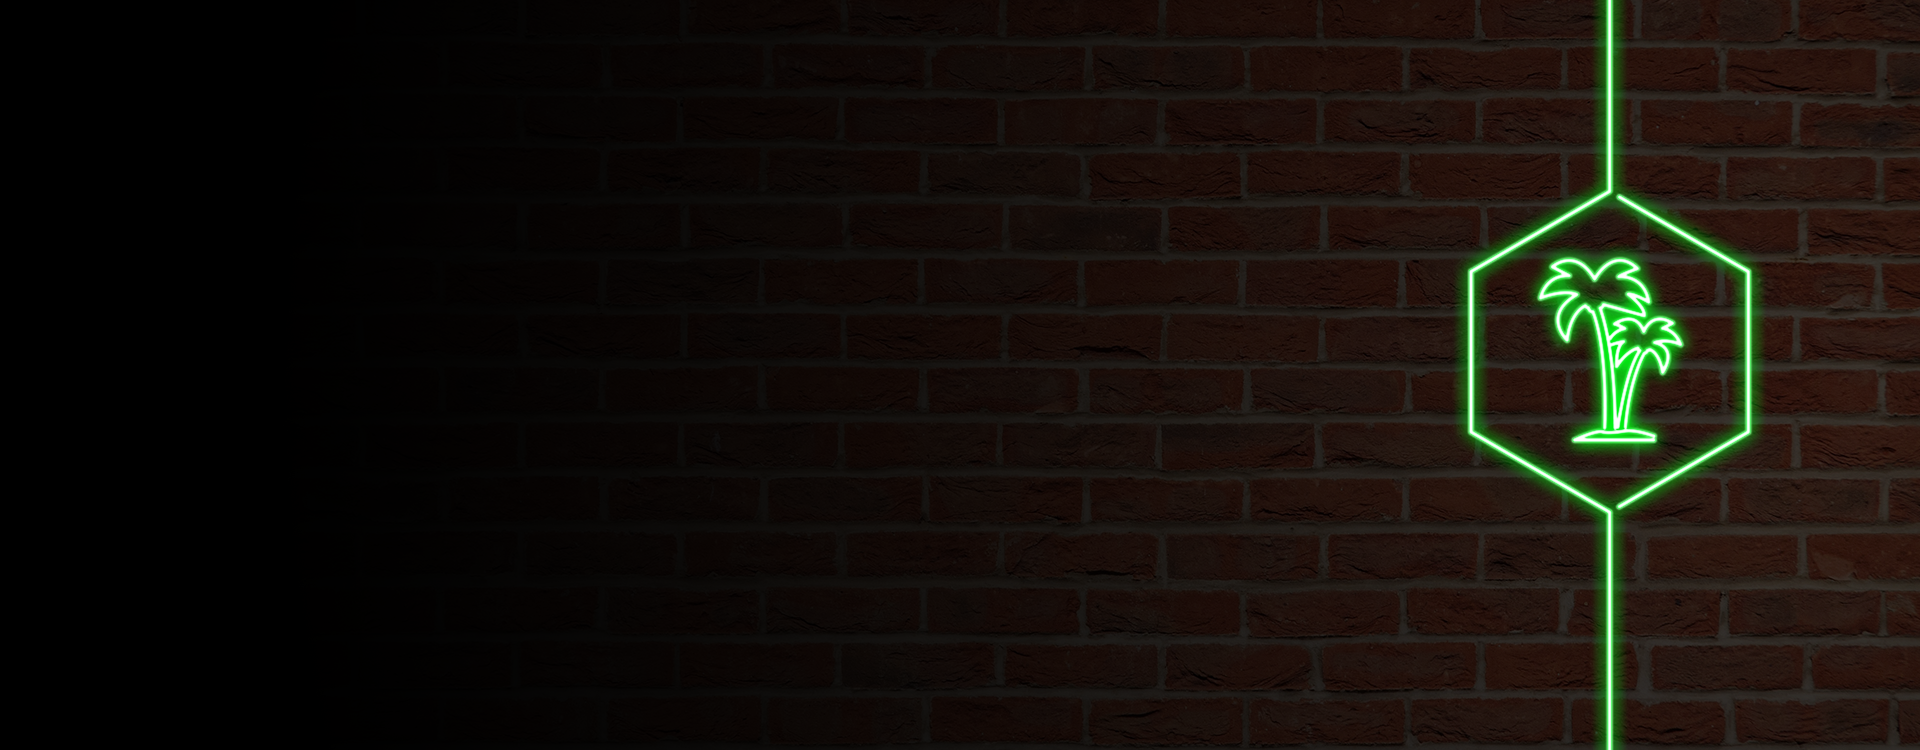
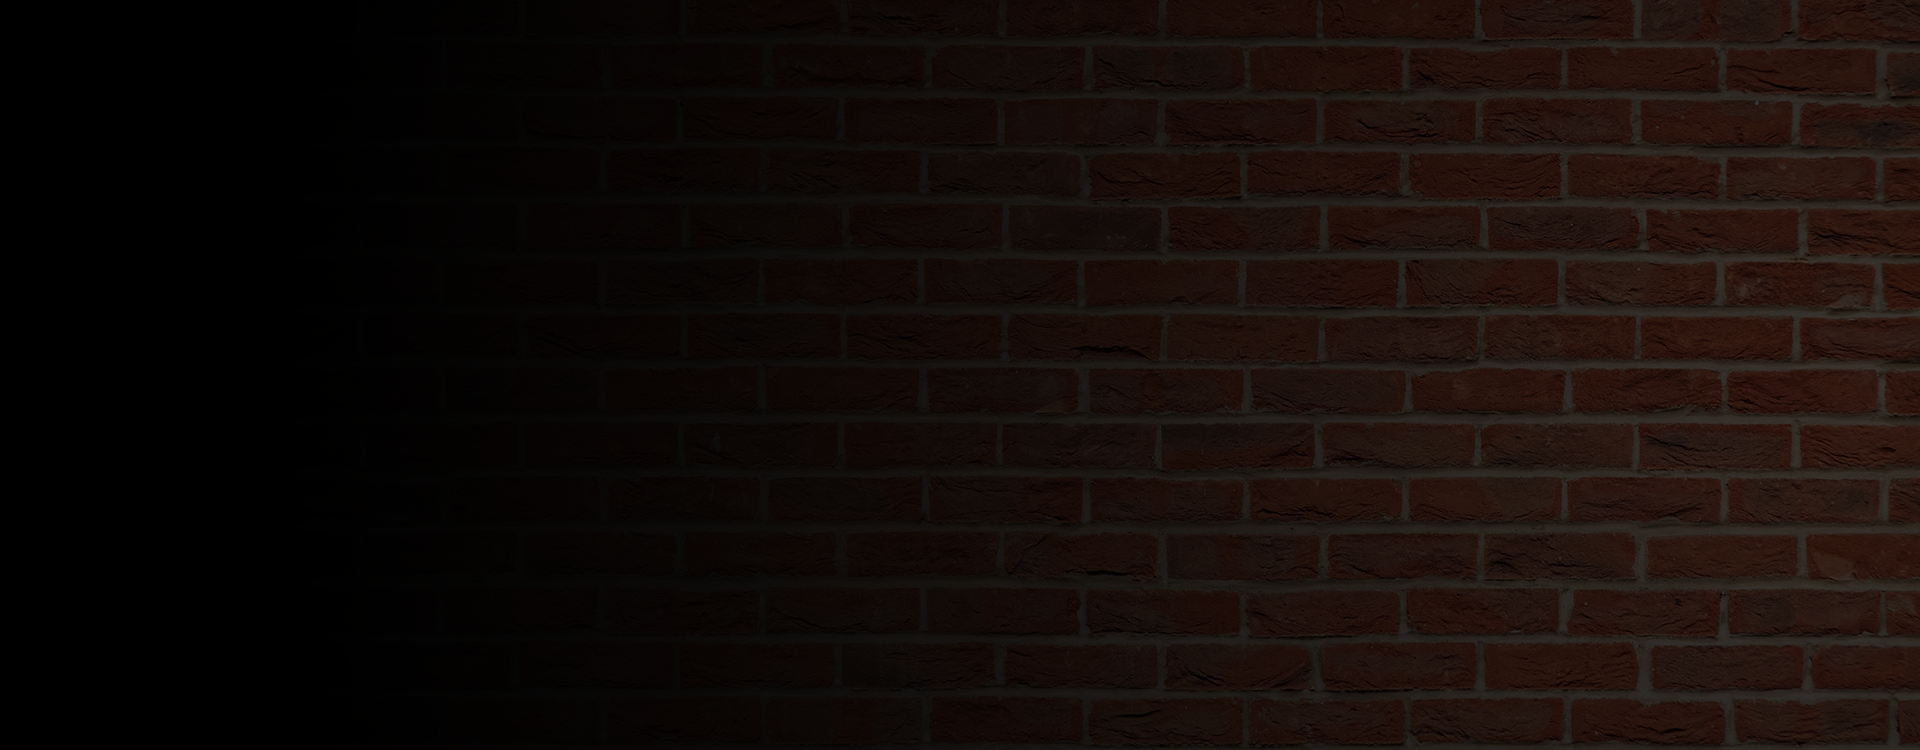
side showcase changes

Changed region(s): [[0.75, 0.0, 0.9375, 1.0]]

diff --git a/src/app/home/home.component.scss b/src/app/home/home.component.scss
@@ -2,6 +2,7 @@
     width: 100%;
     height: 650px;
     background-image: url('/assets/image/hero-background.png');
+    background-position: center;
 }
 
 .logo-bunch img {
@@ -12,7 +13,6 @@
 }
 
 /** BLINKING LINE **/
-
 .box::after {
     content: "";
     width: 3px;
@@ -35,46 +35,138 @@
   }
 
 .box::after {
-    /*code commented for brevity*/
     animation: cursor-blink 1.5s steps(2) infinite;
 }
 
-
-
-
-.animate__animated.icon-1 {
-    --animate-delay: .1s;
-}
-.animate__animated.icon-2 {
-    --animate-delay: .2s;
+.neon-tube {
+    height: 650px;
+    animation: flicker 7s linear infinite;
+    filter: invert(.7) drop-shadow(0px 0px 8px #00e613);
 }
 
-.animate__animated.icon-3 {
-    --animate-delay: .3s;
-}
-
-.animate__animated.icon-4 {
-    --animate-delay: .4s;
-}
-
-.animate__animated.icon-5 {
-    --animate-delay: .5s;
-}
-
-.animate__animated.icon-6 {
-    --animate-delay: .6s;
-}
-
-.animate__animated.icon-7 {
-    --animate-delay: .7s;
-}
-
-.animate__animated.icon-8 {
-    --animate-delay: .8s;
-}
-.animate__animated.icon-9 {
-    --animate-delay: .9s;
-}
-.animate__animated.icon-10 {
-    --animate-delay: 1s;
-}
+@keyframes flicker {
+    from {
+      opacity: 1;
+    }
+  
+    4% {
+      opacity: .9;
+    }
+  
+    6% {
+      opacity: .85;
+    }
+  
+    8% {
+      opacity: .95;
+    }
+  
+    10% {
+      opacity: .90;
+    }
+  
+    11% {
+      opacity: .922;
+    }
+  
+    12% {
+      opacity: .9;
+    }
+  
+    14% {
+      opacity: .95;
+    }
+  
+    16% {
+      opacity: .98;
+    }
+  
+    17% {
+      opacity: .9;
+    }
+  
+    19% {
+      opacity: .93;
+    }
+  
+    20% {
+      opacity: .99;
+    }
+  
+    24% {
+      opacity: 1;
+    }
+  
+    26% {
+      opacity: .94;
+    }
+  
+    28% {
+      opacity: .98;
+    }
+  
+    37% {
+      opacity: .93;
+    }
+  
+    38% {
+      opacity: .5;
+    }
+  
+    39% {
+      opacity: .96;
+    }
+  
+    42% {
+      opacity: 1;
+    }
+  
+    44% {
+      opacity: .97;
+    }
+  
+    46% {
+      opacity: .94;
+    }
+  
+    56% {
+      opacity: .9;
+    }
+  
+    58% {
+      opacity: .9;
+    }
+  
+    60% {
+      opacity: .99;
+    }
+  
+    68% {
+      opacity: 1;
+    }
+  
+    70% {
+      opacity: .9;
+    }
+  
+    72% {
+      opacity: .95;
+    }
+  
+    93% {
+      opacity: .93;
+    }
+  
+    95% {
+      opacity: .95;
+    }
+  
+    97% {
+      opacity: .93;
+    }
+  
+    to {
+      opacity: 1;
+    }
+  }
+  

diff --git a/src/app/skills/web-apps/web-apps.component.html b/src/app/skills/web-apps/web-apps.component.html
@@ -1,6 +1,6 @@
 <div class="full-height-container">
     <div class="hero-md background-web d-flex align-items-center">
-        <div class="container">
+        <div class="container" style="z-index: 1">
             <div class="row d-flex align-items-center">
                 <div class="col-md-6 hero-text text-md-start my-4 text-center animate__animated animate__fadeIn">
                     <h2>Developing</h2>
@@ -14,12 +14,12 @@
             </div>
         </div>
         <div class="side-showcase">
-            <img class="animate__animated animate__fadeInRight animate__delay-2s icon-1" src="assets/svg/html5.svg">
-            <img class="animate__animated animate__fadeInRight animate__delay-2s icon-2" src="assets/svg/css3.svg">
-            <img class="animate__animated animate__fadeInRight animate__delay-2s icon-3" src="assets/svg/sass.svg">
-            <img class="animate__animated animate__fadeInRight animate__delay-2s icon-4" src="assets/svg/javascript.svg">
-            <img class="animate__animated animate__fadeInRight animate__delay-2s icon-5" src="assets/svg/typescript.svg">
-            <img class="animate__animated animate__fadeInRight animate__delay-2s icon-6" src="assets/svg/php.svg">
+            <img class="animate__animated animate__fadeInRight animate__delay-2s icon-1" placement="start" ngbTooltip="HTML" src="assets/svg/html5.svg">
+            <img class="animate__animated animate__fadeInRight animate__delay-2s icon-2" placement="start" ngbTooltip="CSS" src="assets/svg/css3.svg">
+            <img class="animate__animated animate__fadeInRight animate__delay-2s icon-3" placement="start" ngbTooltip="SASS" src="assets/svg/sass.svg">
+            <img class="rounded animate__animated animate__fadeInRight animate__delay-2s icon-4" placement="start" ngbTooltip="JavaScript" src="assets/svg/javascript.svg">
+            <img class="animate__animated animate__fadeInRight animate__delay-2s icon-5" placement="start" ngbTooltip="TypeScript" src="assets/svg/typescript.svg">
+            <img class="animate__animated animate__fadeInRight animate__delay-2s icon-6" placement="start" ngbTooltip="PHP" src="assets/svg/php.svg">
         </div>
     </div>
     <div class="logo-bunch-two d-flex align-items-center justify-content-center">

diff --git a/src/app/skills/cloud-arch/cloud-arch.component.html b/src/app/skills/cloud-arch/cloud-arch.component.html
@@ -1,10 +1,10 @@
 <div class="full-height-container">
     <div class="hero-md d-flex align-items-center">
-        <div class="container">
+        <div class="container" style="z-index: 1">
             <div class="row d-flex align-items-center">
                 <div class="col-lg-6 text-center hero-text my-4 animate__animated animate__fadeIn">
                     <h1>Cloud Architecture</h1>
-                    <h2>&</h2>
+                    <hr class="rounded">
                     <h1>Optimized Workflow</h1>
                     <h2 class="mt-4">for seamless integration and updates.</h2>
                 </div>
@@ -12,6 +12,14 @@
                     <img class="animate__animated animate__fadeInDown w-100" src="assets/image/system-arch-graphic.png">
                 </div>
             </div>
+        </div>
+        <div class="side-showcase">
+            <img class="rounded animate__animated animate__fadeInRight animate__delay-2s icon-1" placement="start" ngbTooltip="EC2" src="assets/svg/ec2.svg">
+            <img class="rounded animate__animated animate__fadeInRight animate__delay-2s icon-2" placement="start" ngbTooltip="ECS" src="assets/svg/ecs.svg">
+            <img class="rounded animate__animated animate__fadeInRight animate__delay-2s icon-3" placement="start" ngbTooltip="S3" src="assets/svg/s3.svg">
+            <img class="rounded animate__animated animate__fadeInRight animate__delay-2s icon-4" placement="start" ngbTooltip="CloudFront" src="assets/svg/cloudfront.svg">
+            <img class="rounded animate__animated animate__fadeInRight animate__delay-2s icon-5" placement="start" ngbTooltip="Route 53" src="assets/svg/route53.svg">
+            <img class="rounded animate__animated animate__fadeInRight animate__delay-2s icon-6" placement="start" ngbTooltip="Code Pipeline" src="assets/svg/code-pipeline.svg">
         </div>
     </div>
     <div class="logo-bunch-two d-flex align-items-center justify-content-center">

diff --git a/src/styles.scss b/src/styles.scss
@@ -8,8 +8,8 @@ $popover-bg: #bebebe;
 $popover-body-color: #343a40;
 $navbar-toggler-focus-width: 0;
 
-@import '~bootstrap/scss/bootstrap';
-@import '../node_modules/animate.css';
+@import "../node_modules/bootstrap/scss/bootstrap";
+@import "../node_modules/animate.css";
 
 .full-height-container {
     min-height: calc(100vh - 73px);
@@ -30,7 +30,7 @@ $navbar-toggler-focus-width: 0;
 }
 
 .logo-bunch-two {
-    height: 75px
+    height: 75px;
 }
 
 .logo-bunch img {
@@ -77,7 +77,52 @@ $navbar-toggler-focus-width: 0;
 
 @media only screen and (max-width: 767px) {
     .side-showcase {
-      position: unset;
-      margin-right: 10px;
+        position: absolute;
+        right: 10px;
+        z-index: 0;
+        filter: brightness(0) invert(0) contrast(0.5);
     }
+}
+
+.animate__animated.icon-1 {
+    --animate-delay: 0.1s;
+}
+.animate__animated.icon-2 {
+    --animate-delay: 0.2s;
+}
+
+.animate__animated.icon-3 {
+    --animate-delay: 0.3s;
+}
+
+.animate__animated.icon-4 {
+    --animate-delay: 0.4s;
+}
+
+.animate__animated.icon-5 {
+    --animate-delay: 0.5s;
+}
+
+.animate__animated.icon-6 {
+    --animate-delay: 0.6s;
+}
+
+.animate__animated.icon-7 {
+    --animate-delay: 0.7s;
+}
+
+.animate__animated.icon-8 {
+    --animate-delay: 0.8s;
+}
+.animate__animated.icon-9 {
+    --animate-delay: 0.9s;
+}
+.animate__animated.icon-10 {
+    --animate-delay: 1s;
+}
+
+hr.rounded {
+    border-top: 5px solid $body-color;
+    opacity: .9;
+    border-radius: 5px;
   }

diff --git a/src/app/skills/apis/apis.component.html b/src/app/skills/apis/apis.component.html
@@ -1,6 +1,6 @@
 <div class="full-height-container">
     <div class="hero-md d-flex align-items-center">
-        <div class="container">
+        <div class="container" style="z-index: 1">
             <div class="row d-flex align-items-center">
                 <div class="col-lg-7 hero-text text-lg-start my-4 text-center animate__animated animate__fadeIn">
                     <h1>Application Programming Interfaces</h1>
@@ -10,6 +10,12 @@
                     <img class="animate__animated animate__fadeInDown mb-4 w-100" src="assets/image/apis-graphic.png">
                 </div>
             </div>
+        </div>
+        <div class="side-showcase">
+            <img class="rounded animate__animated animate__fadeInRight animate__delay-2s icon-1" placement="start" ngbTooltip="JavaScript" src="assets/svg/javascript.svg">
+            <img class="animate__animated animate__fadeInRight animate__delay-2s icon-2" placement="start" ngbTooltip="TypeScript" src="assets/svg/typescript.svg">
+            <img class="animate__animated animate__fadeInRight animate__delay-2s icon-3" placement="start" ngbTooltip="PHP" src="assets/svg/php.svg">
+            <img class="animate__animated animate__fadeInRight animate__delay-2s icon-4" placement="start" ngbTooltip="Python" src="assets/svg/python.svg">
         </div>
     </div>
     <div class="logo-bunch-two d-flex align-items-center justify-content-center">

diff --git a/src/app/skills/mobile-apps/mobile-apps.component.html b/src/app/skills/mobile-apps/mobile-apps.component.html
@@ -1,6 +1,6 @@
 <div class="full-height-container">
     <div class="hero-md d-flex align-items-center">
-        <div class="container">
+        <div class="container" style="z-index: 1">
             <div class="row d-flex align-items-center">
                 <div class="col-md-6 hero-text text-md-start my-4 text-center animate__animated animate__fadeIn">
                     <h2>Developing</h2>
@@ -11,6 +11,12 @@
                     <img class="animate__animated animate__fadeInDown mb-4 w-100" src="assets/image/mobile-apps-graphic.png">
                 </div>
             </div>
+        </div>
+        <div class="side-showcase">
+            <img class="rounded animate__animated animate__fadeInRight animate__delay-2s icon-1" placement="start" ngbTooltip="JavaScript" src="assets/svg/javascript.svg">
+            <img class="animate__animated animate__fadeInRight animate__delay-2s icon-2" placement="start" ngbTooltip="TypeScript" src="assets/svg/typescript.svg">
+            <img class="animate__animated animate__fadeInRight animate__delay-2s icon-3" placement="start" ngbTooltip="CSS" src="assets/svg/css3.svg">
+            <img class="animate__animated animate__fadeInRight animate__delay-2s icon-4" placement="start" ngbTooltip="SASS" src="assets/svg/sass.svg">
         </div>
     </div>
     <div class="logo-bunch-two d-flex align-items-center justify-content-center">

diff --git a/src/app/home/home.component.html b/src/app/home/home.component.html
@@ -44,6 +44,9 @@
                 </div>
             </div>
         </div>
+        <div class="position-relative d-lg-block d-none ms-auto">
+            <img class="neon-tube" style="height: 650px" src="assets/svg/neon-tubes.svg">
+        </div>
     </div>
 </div>
 
